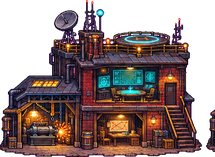
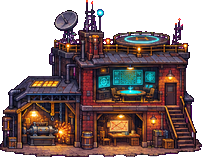
C5 P5: ward/hq stray islands dropped, ward_3 canvas trimmed, hard outer rim; npc_anim_test
Claude-Session: https://claude.ai/code/session_013g54opDJbSzBZ1hF4NWyGa

diff --git a/tools/slice_c5_p5.py b/tools/slice_c5_p5.py
@@ -9,7 +9,7 @@ Steps:
   rekey     magenta key residue post-pass on wildlife walks and pet anims
             (drops r>150, g<110, b>120 pixels) -- c5_09 #4
   blobs     ward_*/hq_* buildings: keep the main blob, drop stray specks/beams,
-            then hard alpha + outline (tools/crispen.py) -- c5_05 #1 #2
+            then a hard outer rim (crispen's palette pass ate their glows) -- c5_05 #1 #2
 Every write removes the old file first (art/gen is hardlinked to the main repo).
 """
 import os, sys, json, glob
@@ -118,24 +118,51 @@ def rekey(report=False):
     print("rekey pixels", total)
 
 
-def _keep_main(a, frac=0.04):
-    """Drop opaque islands smaller than `frac` of the largest one (stray specks,
-    a beam that floated off the art), then trim to what's left."""
-    m = a[..., 3] > 40
-    lab, n = ndimage.label(ndimage.binary_dilation(m, iterations=2))
+def _keep_main(a):
+    """Drop stray islands: specks (< 1.5% of the main piece), a cut-off
+    neighbour touching the left/right edge (< 20%), and anything floating
+    wholly below the main piece (a beam that fell off the art). Then the
+    caller trims the empty bottom rows."""
+    m = a[..., 3] > 100
+    lab, n = ndimage.label(m)
     if n <= 1:
         return a, 0
     sizes = ndimage.sum(m, lab, range(1, n + 1))
-    big = sizes.max()
-    keep = np.isin(lab, [i + 1 for i, s in enumerate(sizes) if s >= frac * big])
-    dropped = int((m & ~keep).sum())
+    objs = ndimage.find_objects(lab)
+    big = int(np.argmax(sizes))
+    main_bottom = objs[big][0].stop
+    w = a.shape[1]
+    drop = []
+    for i, sl in enumerate(objs):
+        if i == big:
+            continue
+        s = sizes[i] / sizes[big]
+        at_edge = sl[1].start == 0 or sl[1].stop >= w
+        if s < 0.015 or (at_edge and s < 0.2) or sl[0].start >= main_bottom - 4:
+            drop.append(i + 1)
+    gone = np.isin(lab, drop)
+    # take the soft fringe around dropped islands too
+    gone = ndimage.binary_dilation(gone, iterations=2) & ~ndimage.binary_dilation(m & ~gone, iterations=1)
     a = a.copy()
-    a[~keep] = 0
+    dropped = int((gone & (a[..., 3] > 0)).sum())
+    a[gone] = 0
     return a, dropped
 
 
+def _hard_rim(a, depth=2):
+    """Half-transparent pixels within `depth` px of the outside go fully
+    opaque or fully clear; inner translucency (beams, glass) stays."""
+    a = a.copy()
+    al = a[..., 3]
+    outside = al < 20
+    near = ndimage.binary_dilation(outside, iterations=depth) & ~outside
+    soft = near & (al < 255)
+    a[..., 3] = np.where(soft, np.where(al >= 120, 255, 0), al)
+    a[a[..., 3] == 0] = 0
+    return a
+
+
 def blobs(names=None):
-    import crispen
     names = names or [f"{p}_{i}" for p in ("ward", "hq") for i in range(1, 7)]
     for nm in names:
         for group in ("buildings", "props"):
@@ -145,10 +172,18 @@ def blobs(names=None):
             path = os.path.join(S.OUT, info["file"])
             a = np.asarray(Image.open(path).convert("RGBA"))
             a2, dropped = _keep_main(a)
-            im = crispen.crispen(Image.fromarray(a2))
-            # Keep the canvas (footprint and anchor unchanged).
+            # A floating piece below the art had stretched the canvas down (the
+            # building stood high above its feet): cut empty rows off the bottom
+            # only, so the width and the x anchor stay.
+            a2 = _hard_rim(a2)
+            a2[a2[..., 3] < 20] = 0
+            rows = np.nonzero((a2[..., 3] > 0).any(axis=1))[0]
+            if len(rows) and rows[-1] < a2.shape[0] - 1:
+                a2 = a2[: rows[-1] + 1]
+            im = Image.fromarray(a2)
             _write(im, path)
-            print(group, nm, "dropped", dropped)
+            info["w"], info["h"] = im.width, im.height
+            print(group, nm, "dropped", dropped, "size", im.size)
 
 
 STEPS = [wren_jr, rekey, blobs]
